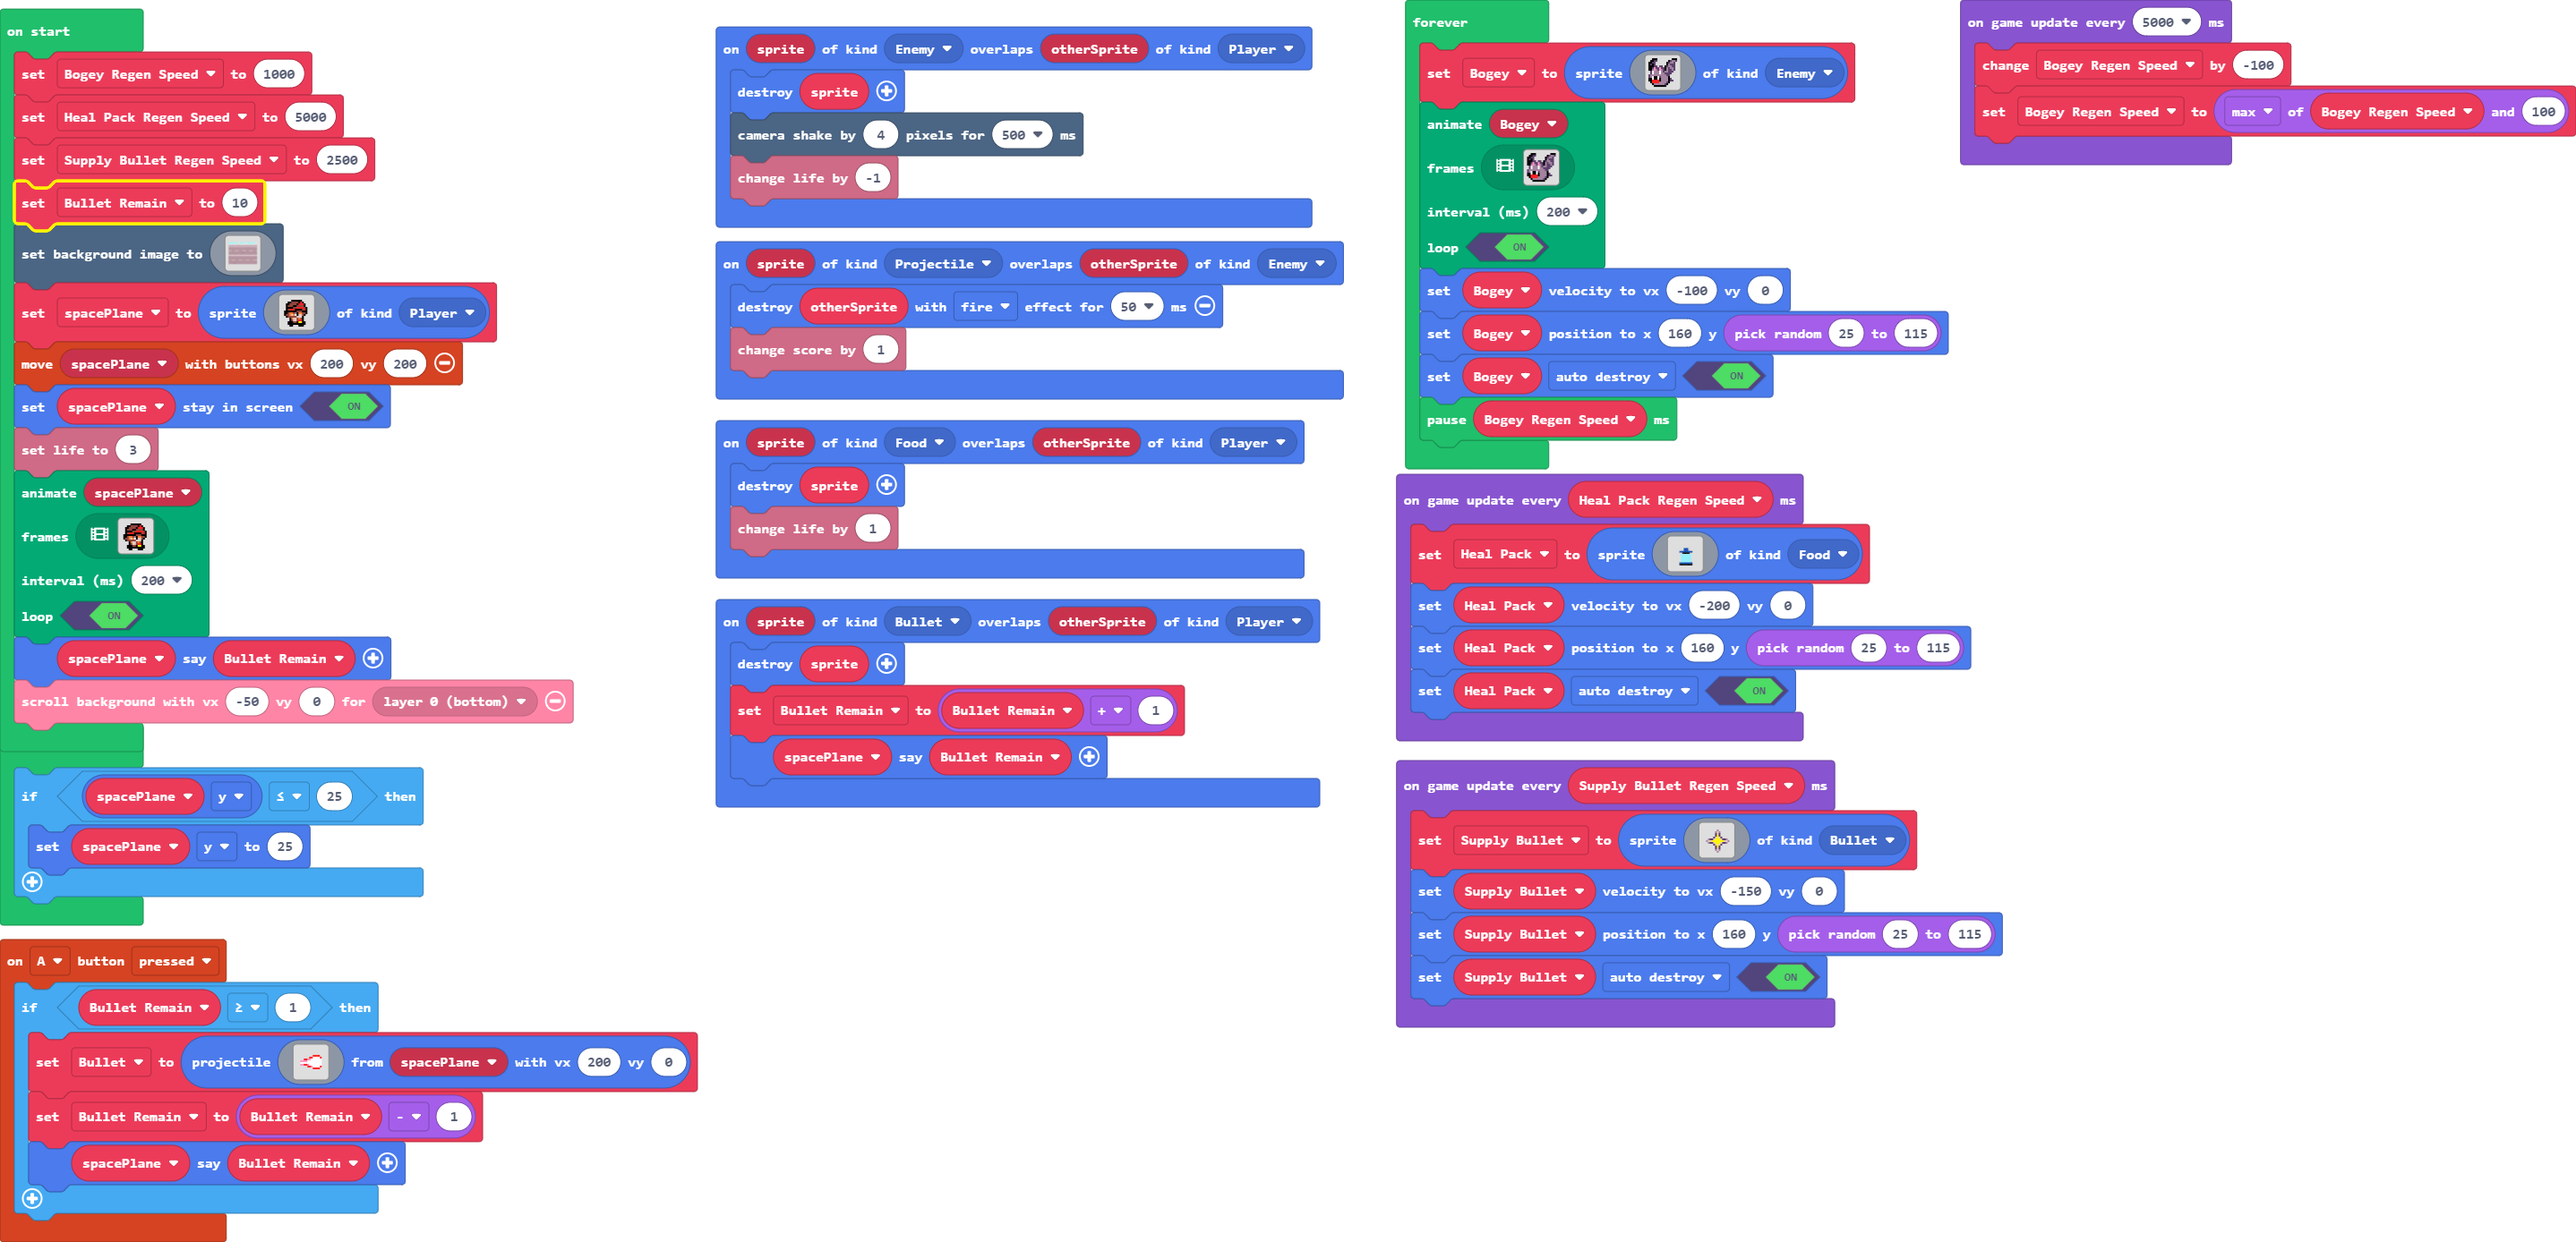
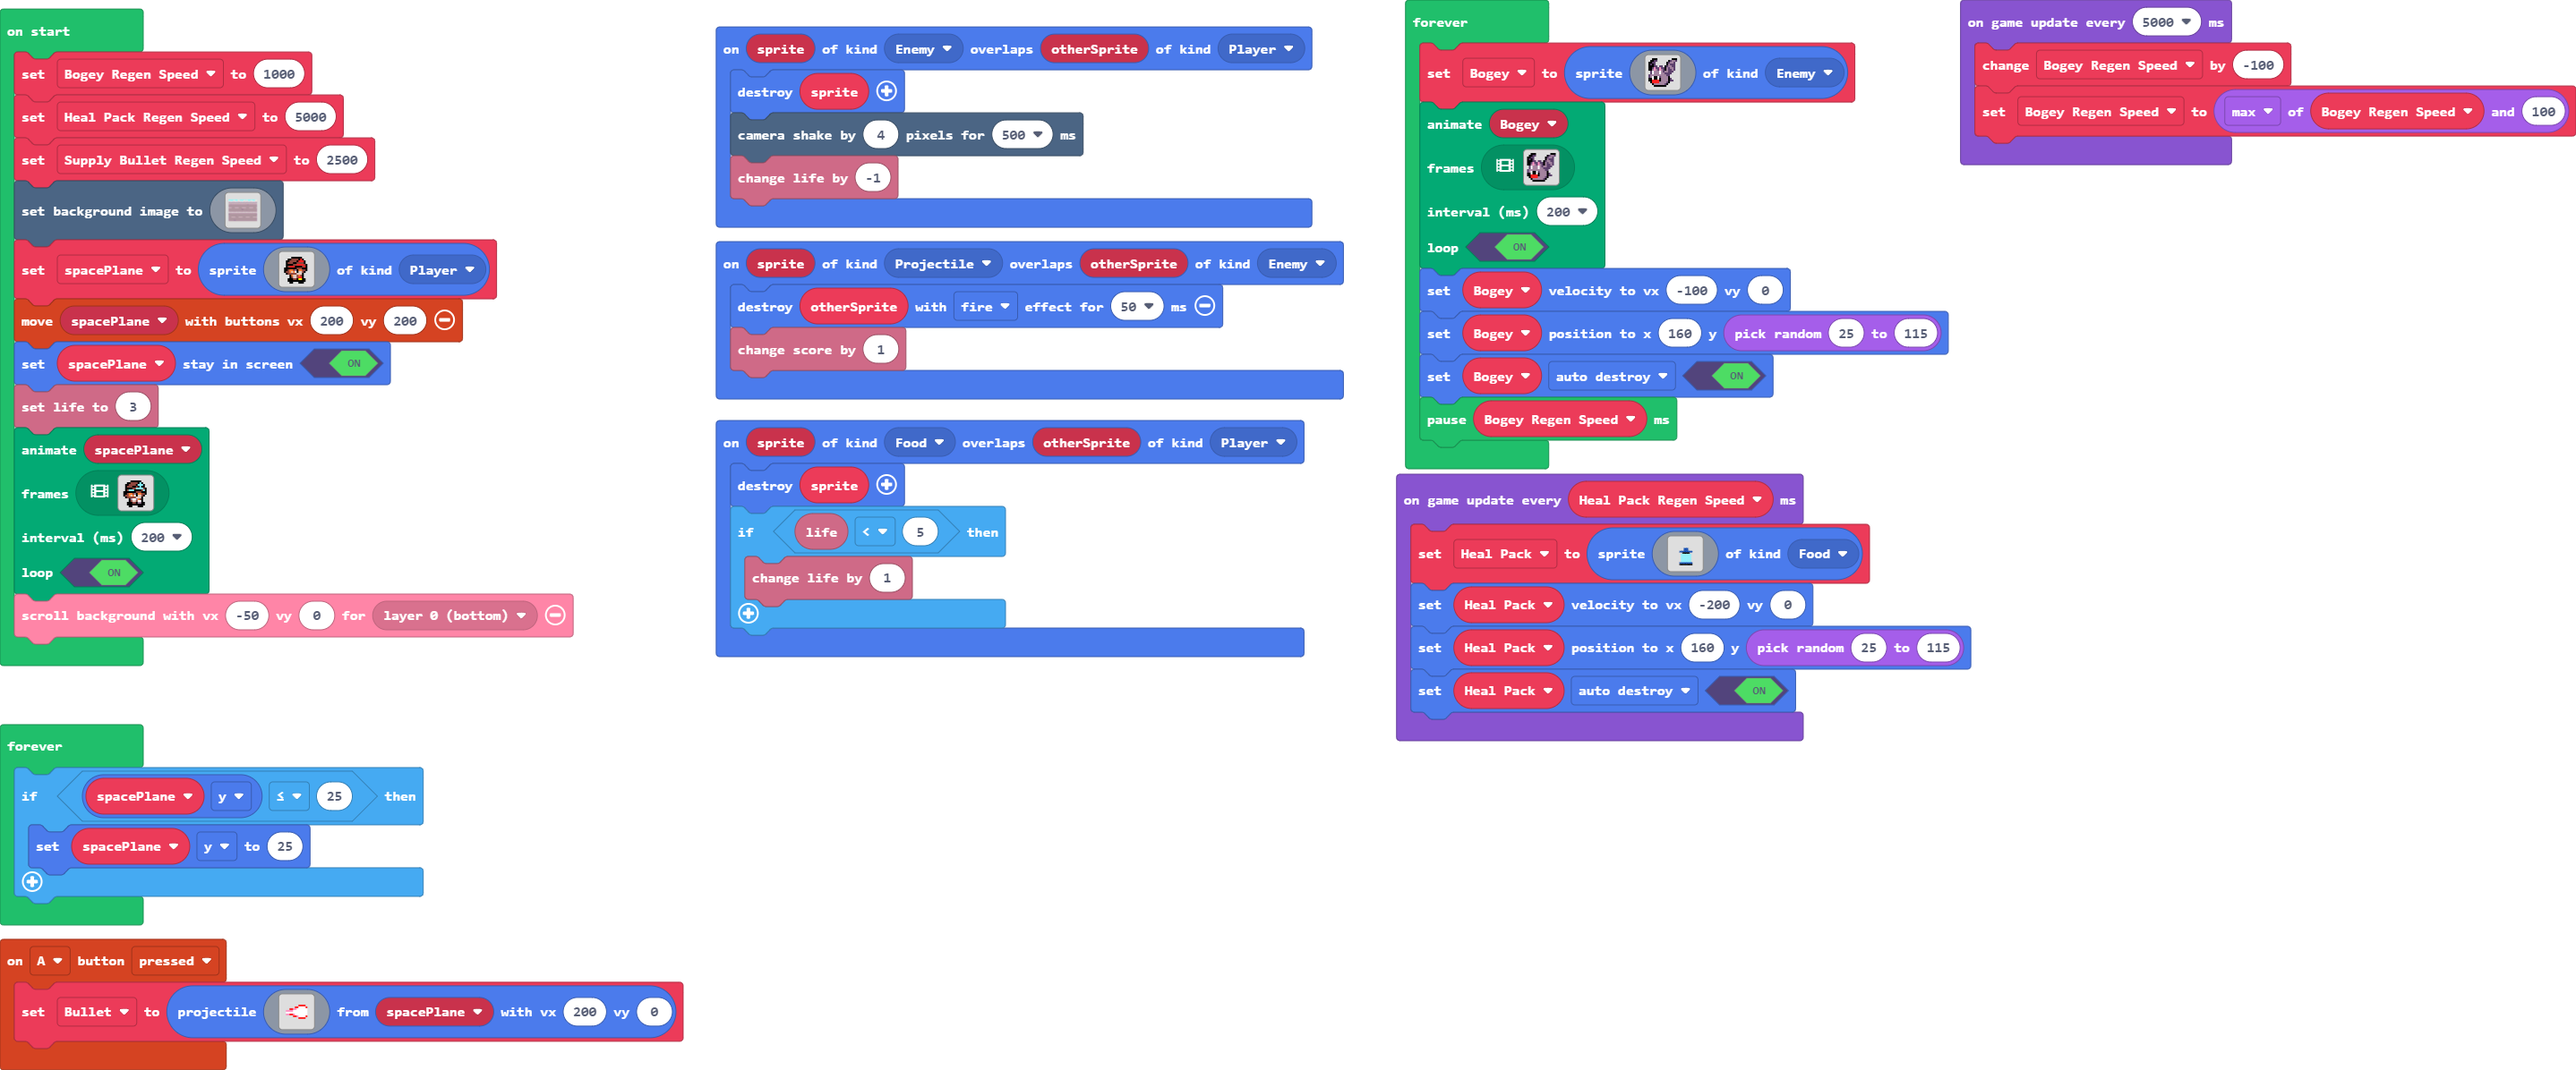
Set Bullet Infinity. Life Max is 5.

diff --git a/main.ts b/main.ts
@@ -2,37 +2,30 @@ namespace SpriteKind {
     export const Bullet = SpriteKind.create()
 }
 controller.A.onEvent(ControllerButtonEvent.Pressed, function () {
-    if (Bullet_Remain >= 1) {
-        Bullet = sprites.createProjectileFromSprite(img`
-            . . . . . . . . . . . . . . . . 
-            . . . . . . . . . . . . . . . . 
-            . . . . . . . . . . . . . . . . 
-            . . . . . . . . . . . . . . . . 
-            . . . . . . . . . 2 2 2 2 . . . 
-            . . . . . . . 2 2 1 1 1 1 2 . . 
-            . . . . 2 2 3 3 1 1 1 1 1 1 . . 
-            . . 3 3 3 3 1 1 1 1 1 1 1 1 . . 
-            . . 1 1 1 1 1 1 1 1 1 1 1 1 . . 
-            . . 3 3 2 2 3 1 1 1 1 1 1 1 . . 
-            . . . . . . 2 2 3 1 1 1 1 2 . . 
-            . . . . . . . . . 2 2 2 2 . . . 
-            . . . . . . . . . . . . . . . . 
-            . . . . . . . . . . . . . . . . 
-            . . . . . . . . . . . . . . . . 
-            . . . . . . . . . . . . . . . . 
-            `, spacePlane, 200, 0)
-        Bullet_Remain = Bullet_Remain - 1
-        spacePlane.sayText(Bullet_Remain)
-    }
-})
-sprites.onOverlap(SpriteKind.Bullet, SpriteKind.Player, function (sprite, otherSprite) {
-    sprite.destroy()
-    Bullet_Remain = Bullet_Remain + 1
-    spacePlane.sayText(Bullet_Remain)
+    Bullet = sprites.createProjectileFromSprite(img`
+        . . . . . . . . . . . . . . . . 
+        . . . . . . . . . . . . . . . . 
+        . . . . . . . . . . . . . . . . 
+        . . . . . . . . . . . . . . . . 
+        . . . . . . . . . 2 2 2 2 . . . 
+        . . . . . . . 2 2 1 1 1 1 2 . . 
+        . . . . 2 2 3 3 1 1 1 1 1 1 . . 
+        . . 3 3 3 3 1 1 1 1 1 1 1 1 . . 
+        . . 1 1 1 1 1 1 1 1 1 1 1 1 . . 
+        . . 3 3 2 2 3 1 1 1 1 1 1 1 . . 
+        . . . . . . 2 2 3 1 1 1 1 2 . . 
+        . . . . . . . . . 2 2 2 2 . . . 
+        . . . . . . . . . . . . . . . . 
+        . . . . . . . . . . . . . . . . 
+        . . . . . . . . . . . . . . . . 
+        . . . . . . . . . . . . . . . . 
+        `, spacePlane, 200, 0)
 })
 sprites.onOverlap(SpriteKind.Food, SpriteKind.Player, function (sprite, otherSprite) {
     sprite.destroy()
-    info.changeLifeBy(1)
+    if (info.life() < 5) {
+        info.changeLifeBy(1)
+    }
 })
 sprites.onOverlap(SpriteKind.Enemy, SpriteKind.Player, function (sprite, otherSprite) {
     sprite.destroy()
@@ -45,14 +38,11 @@ sprites.onOverlap(SpriteKind.Projectile, SpriteKind.Enemy, function (sprite, oth
 })
 let Heal_Pack: Sprite = null
 let Bogey: Sprite = null
-let Supply_Bullet: Sprite = null
 let Bullet: Sprite = null
 let spacePlane: Sprite = null
-let Bullet_Remain = 0
 let Bogey_Regen_Speed = 1000
 let Heal_Pack_Regen_Speed = 5000
 let Supply_Bullet_Regen_Speed = 2500
-Bullet_Remain = 10
 scene.setBackgroundImage(img`
     9999999999999999999999999999999999999999999999999999999999999999999999999999999999999999999999999999999999999999999999999999999999999999999999999999999999999999
     9999999999999999999999999999999999999999999999999999111111111119999999999999999999999999999999999999991111999999999999999999999999999999999999999999111111111111
@@ -201,103 +191,79 @@ spacePlane,
 [img`
     . . . . . . . . . . . . . . . . 
     . . . . . f f f f f f . . . . . 
-    . . . f f e e e e f 2 f . . . . 
-    . . f f e e e e f 2 2 2 f . . . 
-    . . f e e e f f e e e e f . . . 
-    . . f f f f e e 2 2 2 2 e f . . 
-    . . f e 2 2 2 f f f f e 2 f . . 
+    . . . f f e e e e f 9 f . . . . 
+    . . f f e e e e f 9 9 9 f . . . 
+    . . f e e e f f e f 9 f f . . . 
+    . . f f f f e e 9 9 9 9 e f . . 
+    . . f e 9 9 9 f f f f e 9 f . . 
     . f f f f f f f e e e f f f . . 
     . f f e 4 4 e b f 4 4 e e f . . 
     . f e e 4 d 4 1 f d d e f . . . 
     . . f e e e e e d d d f . . . . 
-    . . . . f 4 d d e 4 e f . . . . 
-    . . . . f e d d e 2 2 f . . . . 
-    . . . f f f e e f 5 5 f f . . . 
+    . . . . f b 1 1 b 4 e f . . . . 
+    . . . . f e d d e 1 1 f . . . . 
+    . . . f f f e e f b b f f . . . 
     . . . f f f f f f f f f f . . . 
     . . . . f f . . . f f f . . . . 
     `,img`
     . . . . . f f f f f f . . . . . 
-    . . . f f e e e e f 2 f . . . . 
-    . . f f e e e e f 2 2 2 f . . . 
-    . . f e e e f f e e e e f . . . 
-    . . f f f f e e 2 2 2 2 e f . . 
-    . . f e 2 2 2 f f f f e 2 f . . 
+    . . . f f e e e e f 9 f . . . . 
+    . . f f e e e e f 9 9 9 f . . . 
+    . . f e e e f f e f 9 f f . . . 
+    . . f f f f e e 9 9 9 9 e f . . 
+    . . f e 9 9 9 f f f f e 9 f . . 
     . f f f f f f f e e e f f f . . 
     . f f e 4 4 e b f 4 4 e e f . . 
     . f e e 4 d 4 1 f d d e f f . . 
     . . f e e e 4 d d d d f d d f . 
     . . . f f e e 4 e e e f b b f . 
-    . . . . f 2 2 2 4 d d e b b f . 
-    . . . . e 2 2 2 e d d e b f . . 
-    . . . . f 4 4 4 f e e f f . . . 
+    . . . . f 1 1 1 4 d d e b b f . 
+    . . . . e 1 1 1 e d d e b f . . 
+    . . . . f b b b f e e f f . . . 
     . . . . . f f f f f f . . . . . 
     . . . . . . f f f . . . . . . . 
     `,img`
     . . . . . . . . . . . . . . . . 
     . . . . . f f f f f f . . . . . 
-    . . . f f e e e e f 2 f . . . . 
-    . . f f e e e e f 2 2 2 f . . . 
-    . . f e e e f f e e e e f . . . 
-    . . f f f f e e 2 2 2 2 e f . . 
-    . . f e 2 2 2 f f f f e 2 f . . 
+    . . . f f e e e e f 9 f . . . . 
+    . . f f e e e e f 9 9 9 f . . . 
+    . . f e e e f f e f 9 f f . . . 
+    . . f f f f e e 9 9 9 9 e f . . 
+    . . f e 9 9 9 f f f f e 9 f . . 
     . f f f f f f f e e e f f f . . 
     . f f e 4 4 e b f 4 4 e e f . . 
     . f e e 4 d 4 1 f d d e f . . . 
     . . f e e e e e d d d f . . . . 
-    . . . . f 4 d d e 4 e f . . . . 
-    . . . . f e d d e 2 2 f . . . . 
-    . . . f f f e e f 5 5 f f . . . 
+    . . . . f b 1 1 b 4 e f . . . . 
+    . . . . f e d d e 1 1 f . . . . 
+    . . . f f f e e f b b f f . . . 
     . . . f f f f f f f f f f . . . 
     . . . . f f . . . f f f . . . . 
     `,img`
-    . . . . . . . . . . . . . . . . 
     . . . . . f f f f f f . . . . . 
-    . . . f f e e e e f 2 f . . . . 
-    . . f f e e e e f 2 2 2 f . . . 
-    . . f e e e f f e e e e f . . . 
-    . . f f f f e e 2 2 2 2 e f . . 
-    . . f e 2 2 2 f f f f e 2 f . . 
+    . . . f f e e e e f 9 f . . . . 
+    . . f f e e e e f 9 9 9 f . . . 
+    . . f e e e f f e f 9 f f . . . 
+    . . f f f f e e 9 9 9 9 e f . . 
+    . . f e 9 9 9 f f f f e 9 f . . 
     . f f f f f f f e e e f f f . . 
     . f f e 4 4 e b f 4 4 e e f . . 
     . f e e 4 d 4 1 f d d e f f . . 
     . . f e e e 4 d d d d f d d f . 
-    . . . . f e e 4 e e e f b b f . 
-    . . . . f 2 2 2 4 d d e b b f . 
-    . . . f f 4 4 4 e d d e b f . . 
-    . . . f f f f f f e e f f . . . 
-    . . . . f f . . . f f f . . . . 
+    . . . f f e e 4 e e e f b b f . 
+    . . . . f 1 1 1 4 d d e b b f . 
+    . . . . e 1 1 1 e d d e b f . . 
+    . . . . f b b b f e e f f . . . 
+    . . . . . f f f f f f . . . . . 
+    . . . . . . f f f . . . . . . . 
     `],
 200,
 true
 )
-spacePlane.sayText(Bullet_Remain)
 scroller.scrollBackgroundWithSpeed(-50, 0, scroller.BackgroundLayer.Layer0)
 game.onUpdateInterval(5000, function () {
     Bogey_Regen_Speed += -100
     Bogey_Regen_Speed = Math.max(Bogey_Regen_Speed, 100)
-})
-game.onUpdateInterval(Supply_Bullet_Regen_Speed, function () {
-    Supply_Bullet = sprites.create(img`
-        . . . . . . . . . . . . . . . . 
-        . . . . . . . . . . . . . . . . 
-        . . . . . . . . b . . . . . . . 
-        . . . . . . . b d b . . . . . . 
-        . . . . . . . c d c . . . . . . 
-        . . . . . . . c 5 c . . . . . . 
-        . . . . . . c d 5 d c . . . . . 
-        . . . b c c d 5 5 5 d c c b . . 
-        . . b d d 5 5 5 5 5 5 5 d d b . 
-        . . . b c c d 5 5 5 d c c b . . 
-        . . . . . . c d 5 d c . . . . . 
-        . . . . . . . c 5 c . . . . . . 
-        . . . . . . . c d c . . . . . . 
-        . . . . . . . b d b . . . . . . 
-        . . . . . . . . b . . . . . . . 
-        . . . . . . . . . . . . . . . . 
-        `, SpriteKind.Bullet)
-    Supply_Bullet.setVelocity(-150, 0)
-    Supply_Bullet.setPosition(160, randint(25, 115))
-    Supply_Bullet.setFlag(SpriteFlag.AutoDestroy, true)
 })
 forever(function () {
     Bogey = sprites.create(img`
